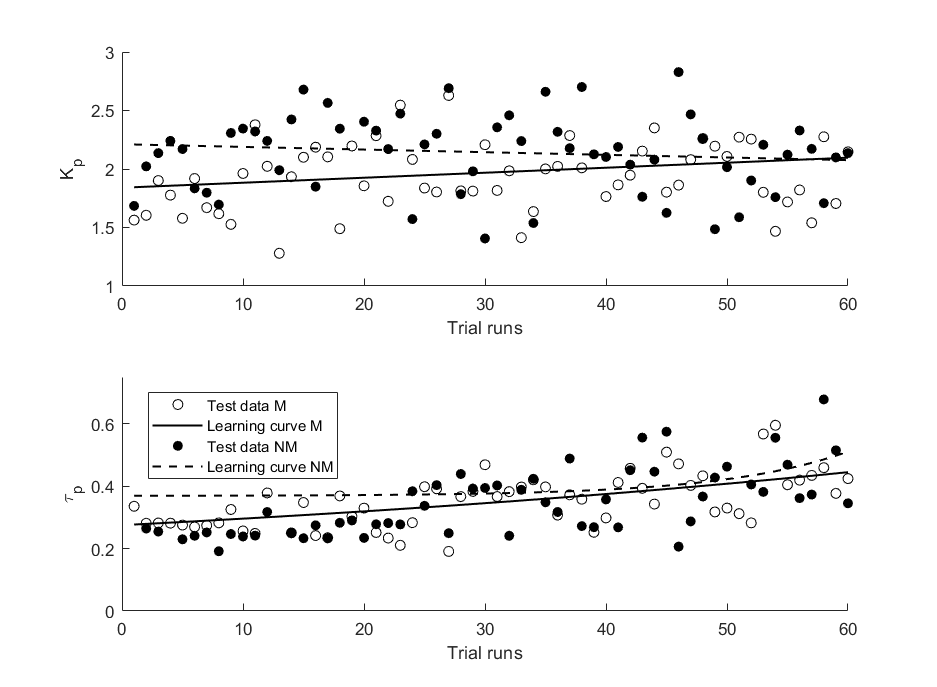
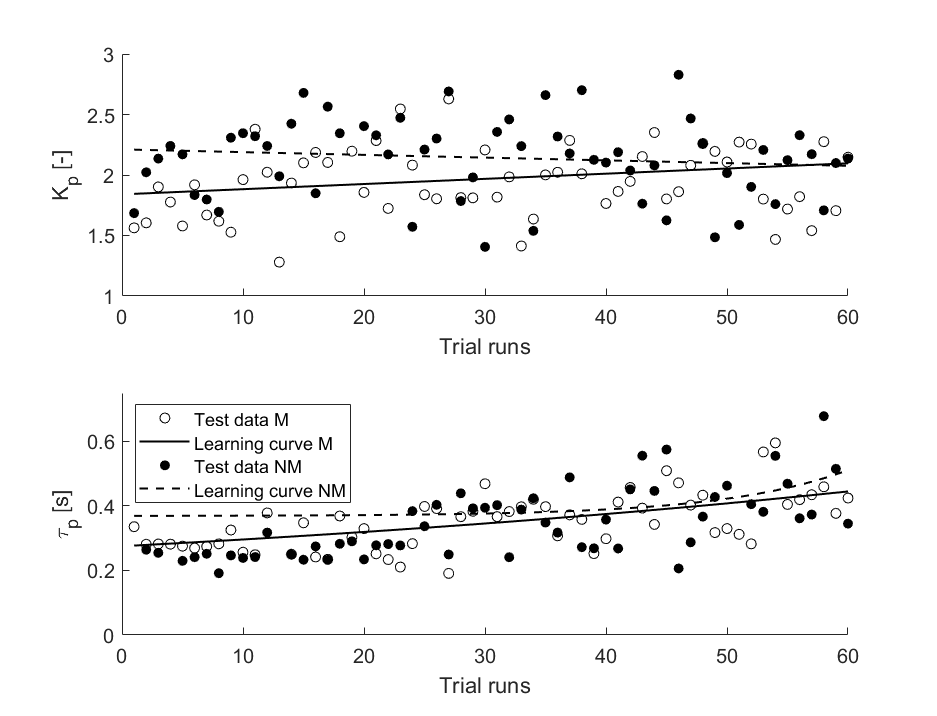
DONEE

diff --git a/J_fun.m b/J_fun.m
@@ -132,8 +132,6 @@ end
 % title = "Bode plot for run 1 and 60 from participant 1 in Moving simulator" ;
 figure(1)
 set(gcf, 'Position', [100 100 700 650])
-ah=gca; 
-set(ah,'Fontsize',12)
 subplot(2,1,1)
 loglog(omega, data_mag1(2,:),'ok')
 hold on
@@ -146,6 +144,8 @@ hold off
 axis(10.^[-1 1.5 -1 2])
 xlabel("\omega [rad/s]")
 ylabel("|H_{p} (j \omega)| [-]")
+ah=gca; 
+set(ah,'Fontsize',12)
 % legend('Test data run 1','Test data run 60','Model run 1','Model run 60','Location','southwest')
 
 subplot(2,1,2)
@@ -161,6 +161,8 @@ axis([10.^-1 10.^1.5 -360 180])
 xlabel("\omega [rad/s]")
 ylabel("\angle H_{p} (j \omega) [deg]")
 legend('Test data run 1','Test data run 60','Model run 1','Model run 60','Location','southwest')
+ah=gca; 
+set(ah,'Fontsize',12)
 % sgtitle(title)
 
 %% Getting learning curve M
@@ -343,8 +345,6 @@ end
 % title = "Bode plot for run 1 and 60 from participant 1 in Non-Moving simulator" ;
 figure(2)
 set(gcf, 'Position', [100 100 700 650])
-ah=gca; 
-set(ah,'Fontsize',12)
 subplot(2,1,1)
 loglog(omega, data_mag1_NM(1,:),'ok')
 hold on
@@ -357,6 +357,8 @@ hold off
 axis(10.^[-1 1.5 -1 2])
 xlabel("\omega [rad/s]")
 ylabel("|H_{p} (j \omega)| [-]")
+ah=gca; 
+set(ah,'Fontsize',12)
 % legend('Test data run 1','Test data run 60','Model run 1','Model run 60','Location','southwest')
 
 subplot(2,1,2)
@@ -372,6 +374,8 @@ axis([10.^-1 10.^1.5 -360 180])
 xlabel("\omega [rad/s]")
 ylabel("\angle H_{p} (j \omega) [deg]")
 legend('Test data run 1','Test data run 60','Model run 1','Model run 60','Location','southwest')
+ah=gca; 
+set(ah,'Fontsize',12)
 % sgtitle(title)
 
 %% Getting learning curve NM
@@ -423,8 +427,6 @@ figure(4)
 set(gcf, 'Position', [100 100 1000 650])
 h1 = subplot(3,2,[1,2]);
 size = get(h1,'position');
-ah=gca; 
-set(ah,'Fontsize',12)
 scatter(x_axis,kp_m,'k','o')
 hold on
 plot(x_axis,yfit_m_kp,'k','LineStyle','-','LineWidth',1.2);
@@ -434,15 +436,15 @@ hold on
 plot(x_axis,yfit_nm_kp,'k','LineStyle','--','LineWidth',1.2);
 hold off
 xlabel('Trial runs')
-ylabel('K_p')
+ylabel('K_p [-]')
 legend('Test data M','Learning curve M','Test data NM','Learning curve NM','Location','bestoutside')
+ah=gca; 
+set(ah,'Fontsize',12)
 % ylim([-10,5])
 % legend({'K_p','Learning curve','Upper bound','Lower Bound'},'Location','northeast','Orientation','vertical')
 %plotting time lead
 h2 = subplot(3,2,3);
 size2 = get(h2,'position');
-ah=gca; 
-set(ah,'Fontsize',12)
 scatter(x_axis,Tl_m,'k','o')
 hold on
 plot(x_axis,yfit_m_Tl,'k','LineStyle','-','LineWidth',1.2);
@@ -452,12 +454,12 @@ hold on
 plot(x_axis,yfit_nm_Tl,'k','LineStyle','--','LineWidth',1.2);
 hold off
 xlabel('Trial runs')
-ylabel('T_L')
+ylabel('T_L [s]')
+ah=gca; 
+set(ah,'Fontsize',12)
 % legend({'\tau_L','Learning curve','Upper bound','Lower Bound'},'Location','northeast','Orientation','vertical')
 %plotting pilot time
 subplot(3,2,4);
-ah=gca; 
-set(ah,'Fontsize',12)
 scatter(x_axis,Tp_m,'k','o')
 hold on
 plot(x_axis,yfit_m_Tp,'k','LineStyle','-','LineWidth',1.2);
@@ -467,14 +469,14 @@ hold on
 plot(x_axis,yfit_nm_Tp,'k','LineStyle','--','LineWidth',1.2);
 hold off
 xlabel('Trial runs')
-ylabel('\tau_p')
+ylabel('\tau_p [s]')
+ah=gca; 
+set(ah,'Fontsize',12)
 % legend({'\tau_p','Learning curve','Upper bound','Lower Bound'},'Location','northeast','Orientation','vertical')
 %plotting damping
 
 x_new = [2:1:60];
 subplot(3,2,5)
-ah=gca; 
-set(ah,'Fontsize',12)
 scatter(x_new,zeta_m(2:end,:),'k','o')
 hold on
 plot(x_new,yfit_m_zeta,'k','LineStyle','-','LineWidth',1.2);
@@ -484,12 +486,12 @@ hold on
 plot(x_new,yfit_nm_zeta,'k','LineStyle','--','LineWidth',1.2);
 hold off
 xlabel('Trial runs')
-ylabel('\zeta_{nm}')
+ylabel('\zeta_{nm} [-]')
+ah=gca; 
+set(ah,'Fontsize',12)
 % legend({'\zeta_{nm}','Learning curve','Upper bound','Lower Bound'},'Location','northeast','Orientation','vertical')
 %plotting omega
 subplot(3,2,6)
-ah=gca; 
-set(ah,'Fontsize',12)
 scatter(x_new,omega_m(2:end,:),'k','o')
 hold on
 plot(x_new,yfit_m_omega,'k','LineStyle','-','LineWidth',1.2);
@@ -499,7 +501,9 @@ hold on
 plot(x_new,yfit_nm_omega,'k','LineStyle','--','LineWidth',1.2);
 hold off
 xlabel('Trial runs')
-ylabel('\omega_{nm}')
+ylabel('\omega_{nm} [rad/s]')
+ah=gca; 
+set(ah,'Fontsize',12)
 % legend({'\omega_{nm}','Learning curve','Upper bound','Lower Bound'},'Location','northeast','Orientation','vertical')
 set(h1, 'position', [size(1), size(2), 1.01*size2(3), size(4)] );
 
@@ -509,10 +513,7 @@ set(h1, 'position', [size(1), size(2), 1.01*size2(3), size(4)] );
 
 figure(5)
 set(gcf, 'Position', [100 100 750 550])
-h1 = subplot(2,1,1);
-size = get(h1,'position');
-ah=gca; 
-set(ah,'Fontsize',12)
+subplot(2,1,1);
 scatter(x_axis,kp_m,'k','o')
 hold on
 plot(x_axis,yfit_m_kp,'k','LineStyle','-','LineWidth',1.2);
@@ -522,14 +523,14 @@ hold on
 plot(x_axis,yfit_nm_kp,'k','LineStyle','--','LineWidth',1.2);
 hold off
 xlabel('Trial runs')
-ylabel('K_p')
+ylabel('K_p [-]')
 ylim([1,3])
+ah=gca; 
+set(ah,'Fontsize',12)
 
 
 
 subplot(2,1,2);
-ah=gca; 
-set(ah,'Fontsize',12)
 scatter(x_axis,Tp_m,'k','o')
 hold on
 plot(x_axis,yfit_m_Tp,'k','LineStyle','-','LineWidth',1.2);
@@ -539,6 +540,8 @@ hold on
 plot(x_axis,yfit_nm_Tp,'k','LineStyle','--','LineWidth',1.2);
 hold off
 xlabel('Trial runs')
-ylabel('\tau_p')
+ylabel('\tau_p [s]')
 ylim([0,0.75])
 legend('Test data M','Learning curve M','Test data NM','Learning curve NM','Location','best')
+ah=gca; 
+set(ah,'Fontsize',12)
